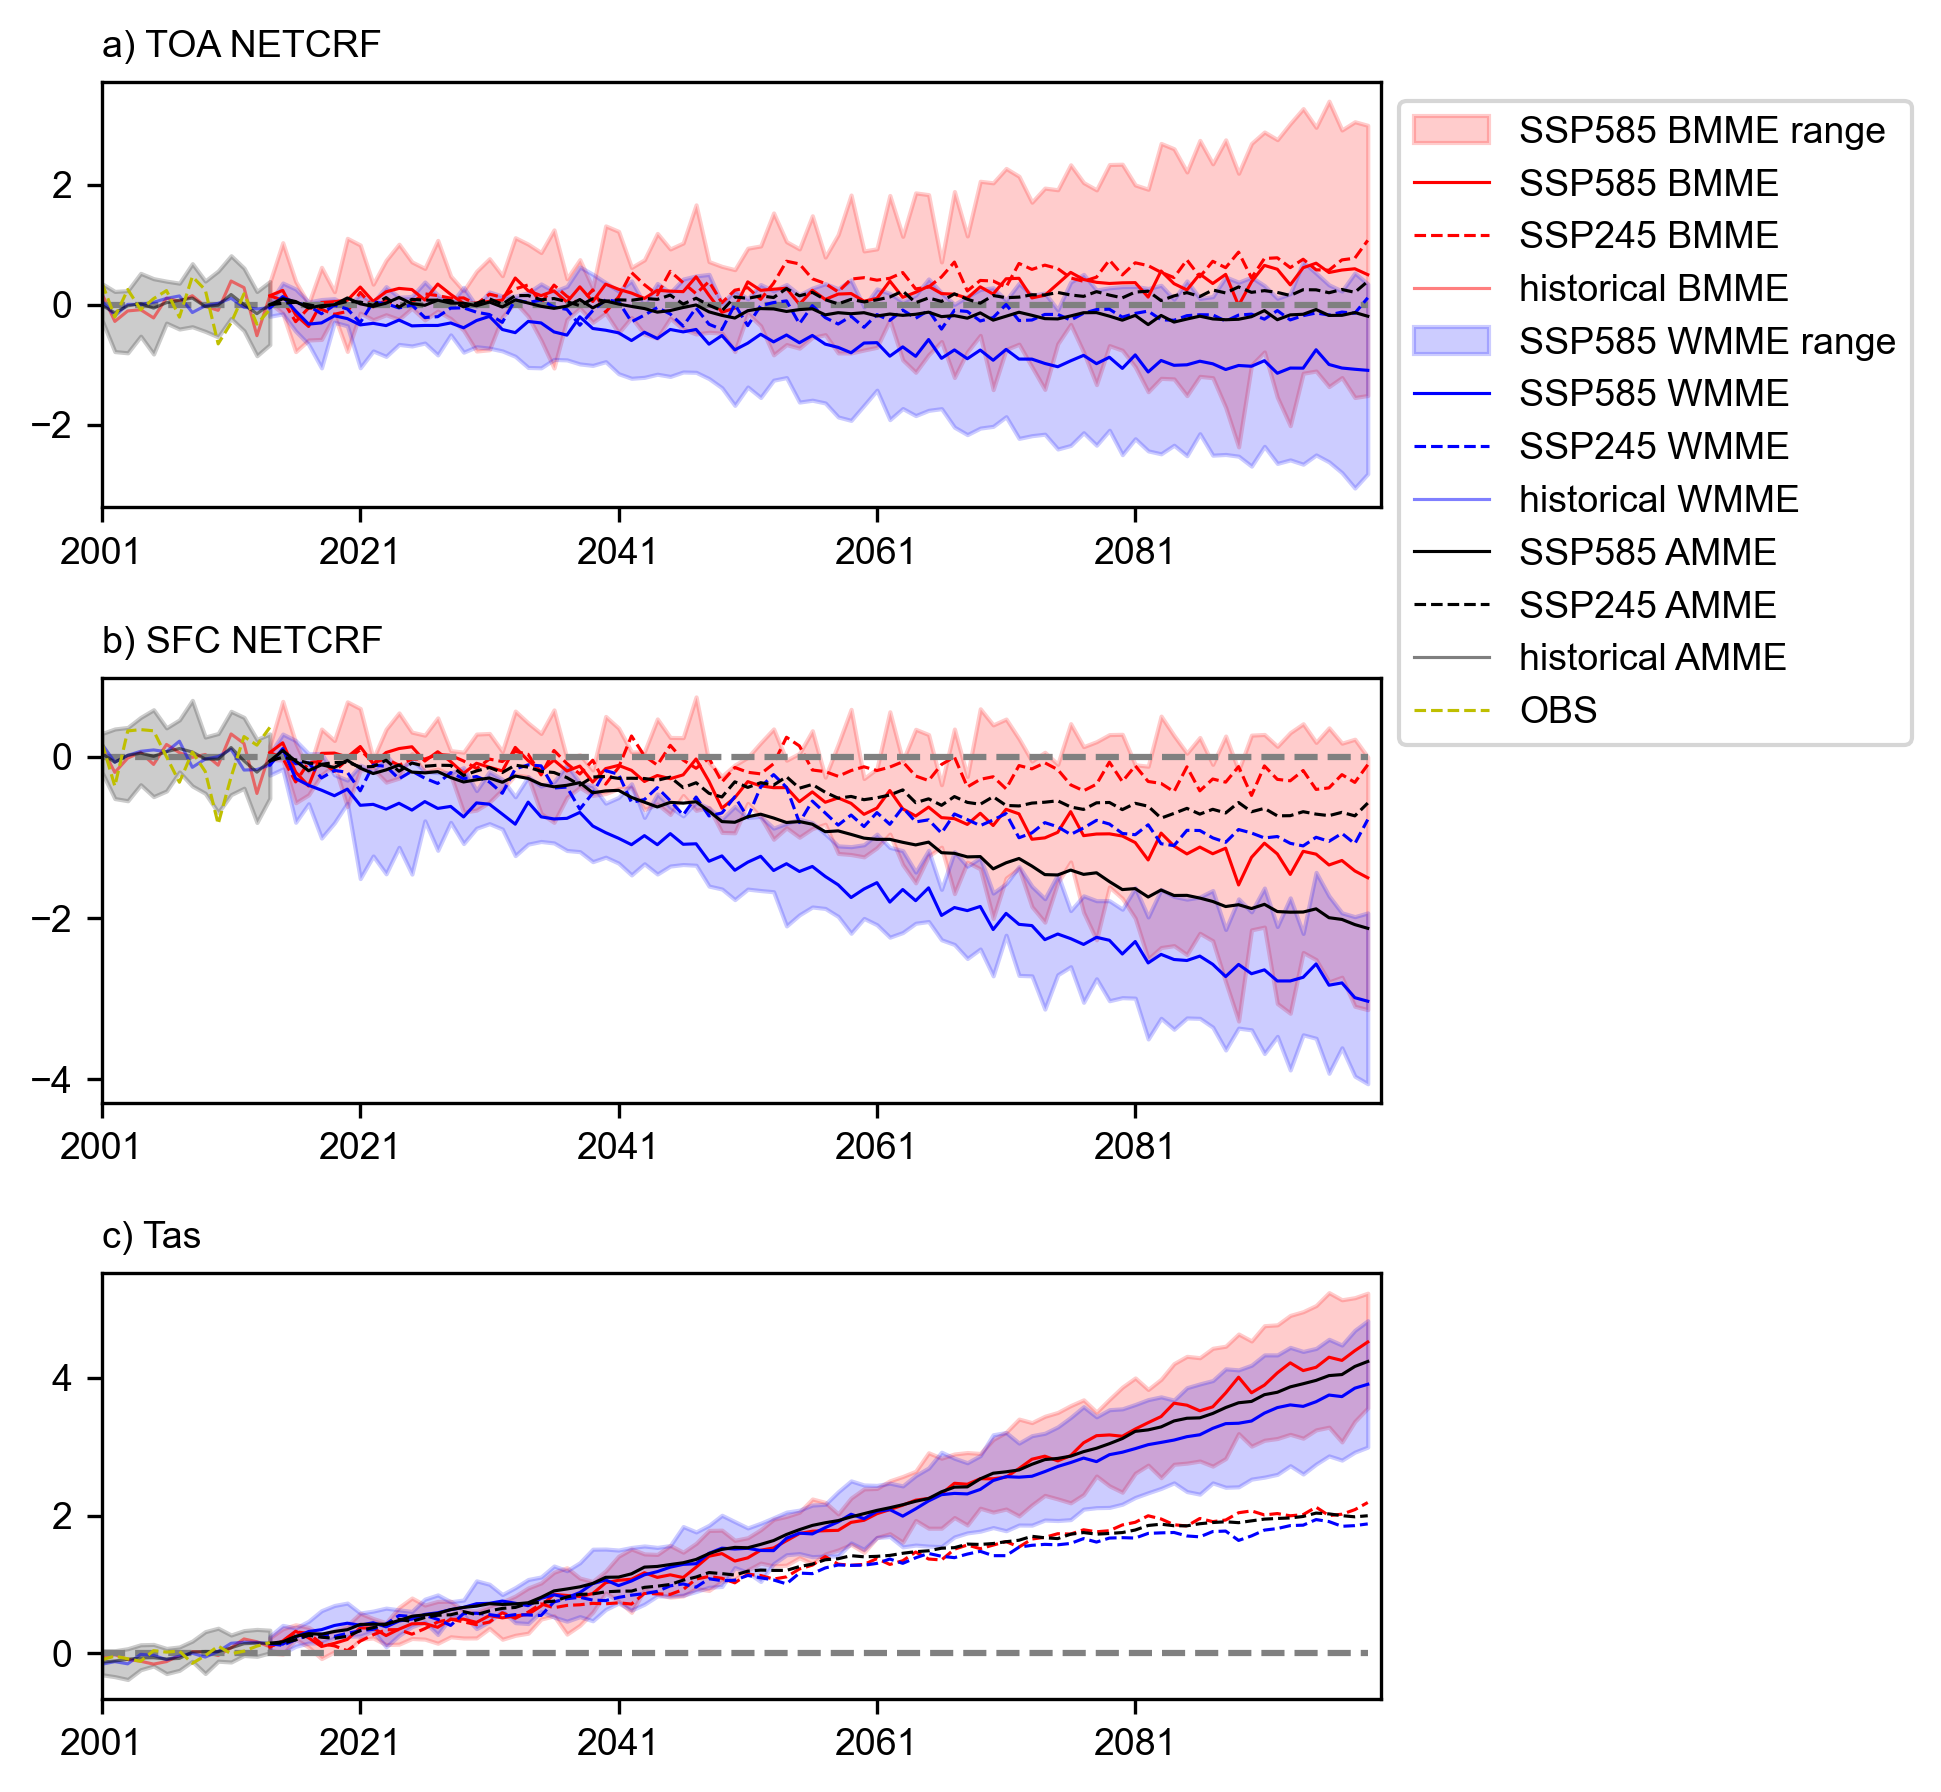
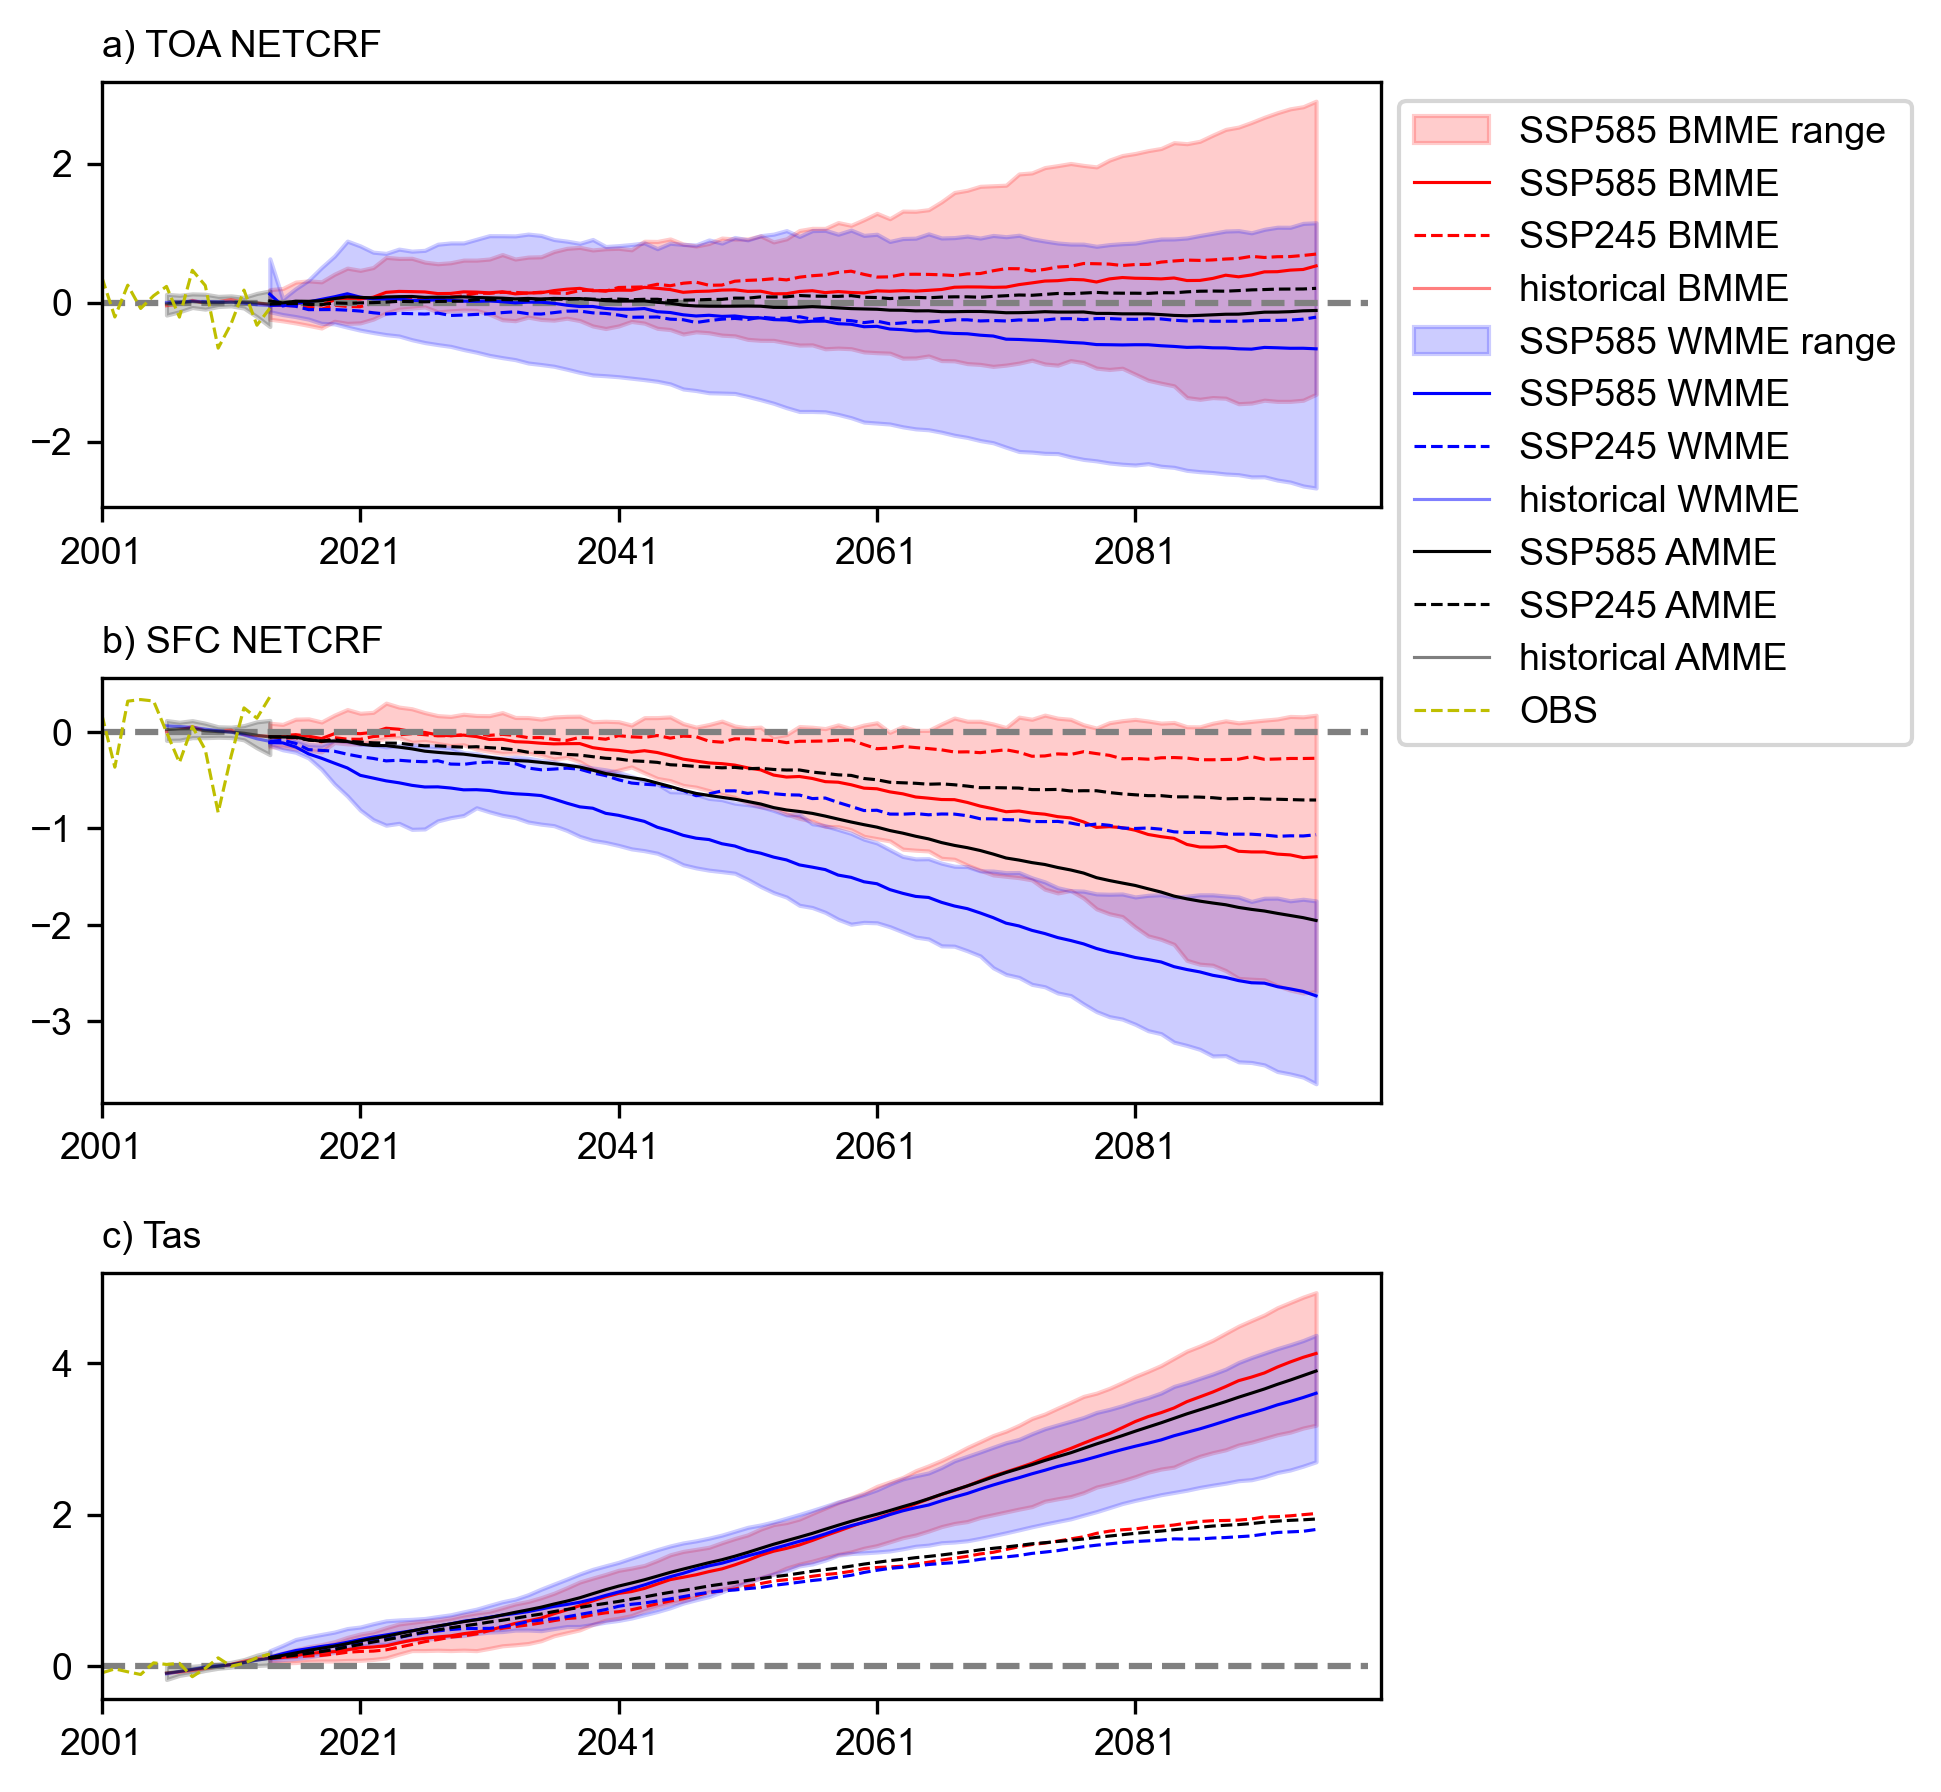
rolling mean test

diff --git a/code2/plot_bwmme_ssp_trend.py b/code2/plot_bwmme_ssp_trend.py
@@ -99,14 +99,15 @@ def draw3_range(ax,ssp245_all,ssp245_bmme,ssp245_wmme,ssp585_all,ssp585_bmme,ssp
     if num==1:
         ax.legend(fontsize=9,bbox_to_anchor=(1,1))
 
-t1=(ssp245_ts_xr.loc[0,:,models20]+ssp245_ts_xr.loc[1,:,models20]).groupby('time.year').mean().loc['2001':'2101']
-t2=(ssp585_ts_xr.loc[0,:,models20]+ssp585_ts_xr.loc[1,:,models20]).groupby('time.year').mean().loc['2001':'2101']
-t3=(ssp245_ts_xr.loc[2,:,models20]+ssp245_ts_xr.loc[3,:,models20]).groupby('time.year').mean().loc['2001':'2101']
-t4=(ssp585_ts_xr.loc[2,:,models20]+ssp585_ts_xr.loc[3,:,models20]).groupby('time.year').mean().loc['2001':'2101']
-t5=ssp245_ts_xr.loc[4,:,models20].groupby('time.year').mean().loc['2001':'2101']
-t6=ssp585_ts_xr.loc[4,:,models20].groupby('time.year').mean().loc['2001':'2101']
-t7=ssp245_ts_xr.loc[5,:,models20].groupby('time.year').mean().loc['2001':'2101']
-t8=ssp585_ts_xr.loc[5,:,models20].groupby('time.year').mean().loc['2001':'2101']
+t1=(ssp245_ts_xr.loc[0,:,models20]+ssp245_ts_xr.loc[1,:,models20]).groupby('time.year').mean().loc['2001':'2101'].rolling(year=10, center=True).mean()
+print(t1.shape)
+t2=(ssp585_ts_xr.loc[0,:,models20]+ssp585_ts_xr.loc[1,:,models20]).groupby('time.year').mean().loc['2001':'2101'].rolling(year=10, center=True).mean()
+t3=(ssp245_ts_xr.loc[2,:,models20]+ssp245_ts_xr.loc[3,:,models20]).groupby('time.year').mean().loc['2001':'2101'].rolling(year=10, center=True).mean()
+t4=(ssp585_ts_xr.loc[2,:,models20]+ssp585_ts_xr.loc[3,:,models20]).groupby('time.year').mean().loc['2001':'2101'].rolling(year=10, center=True).mean()
+t5=ssp245_ts_xr.loc[4,:,models20].groupby('time.year').mean().loc['2001':'2101'].rolling(year=10, center=True).mean()
+t6=ssp585_ts_xr.loc[4,:,models20].groupby('time.year').mean().loc['2001':'2101'].rolling(year=10, center=True).mean()
+t7=ssp245_ts_xr.loc[5,:,models20].groupby('time.year').mean().loc['2001':'2101'].rolling(year=10, center=True).mean()
+t8=ssp585_ts_xr.loc[5,:,models20].groupby('time.year').mean().loc['2001':'2101'].rolling(year=10, center=True).mean()
 t1=t1-np.mean(t1[0:14,:],0)
 t2=t2-np.mean(t2[0:14,:],0)
 t3=t3-np.mean(t3[0:14,:],0)
@@ -127,3 +128,13 @@ draw3_range(ax[0],t1,t1.loc[:,list(set(bmme))],t1.loc[:,list(set(wmme))],t2,t2.l
 draw3_range(ax[1],t3,t3.loc[:,list(set(bmme))],t3.loc[:,list(set(wmme))],t4,t4.loc[:,list(set(bmme))],t4.loc[:,list(set(wmme))],obs2[2,:]+obs2[3,:],'b) SFC NETCRF',2)
 draw3_range(ax[2],t7,t7.loc[:,list(set(bmme))],t7.loc[:,list(set(wmme))],t8,t8.loc[:,list(set(bmme))],t8.loc[:,list(set(wmme))],obs2[5,:],'c) Tas',4)
 plt.savefig('../fig2/bwmme_ssp_trend.png',bbox_inches='tight')
+
+# fig,ax=plt.subplots(4,1,figsize=(5.5,9),dpi=300)
+# fig.subplots_adjust(hspace=0.4) # Adjust vertical spacing between subplots
+# colors=plt.cm.nipy_spectral(np.linspace(0,1,20))
+# draw3_range(ax[0],t1,t1.loc[:,list(set(bmme))],t1.loc[:,list(set(wmme))],t2,t2.loc[:,list(set(bmme))],t2.loc[:,list(set(wmme))],obs2[0,:]+obs2[1,:],'a) TOA NETCRF',1)
+# draw3_range(ax[1],t1-t3,(t1-t3).loc[:,list(set(bmme))],(t1-t3).loc[:,list(set(wmme))],t2-t4,(t2-t4).loc[:,list(set(bmme))],(t2-t4).loc[:,list(set(wmme))],obs2[0,:]+obs2[1,:]-(obs2[2,:]+obs2[3,:]),'b) ATM NETCRF',1)
+
+# draw3_range(ax[2],t3,t3.loc[:,list(set(bmme))],t3.loc[:,list(set(wmme))],t4,t4.loc[:,list(set(bmme))],t4.loc[:,list(set(wmme))],obs2[2,:]+obs2[3,:],'b) SFC NETCRF',2)
+# draw3_range(ax[3],t7,t7.loc[:,list(set(bmme))],t7.loc[:,list(set(wmme))],t8,t8.loc[:,list(set(bmme))],t8.loc[:,list(set(wmme))],obs2[5,:],'c) Tas',4)
+# plt.savefig('../fig2/bwmme_ssp_trend.png',bbox_inches='tight')
